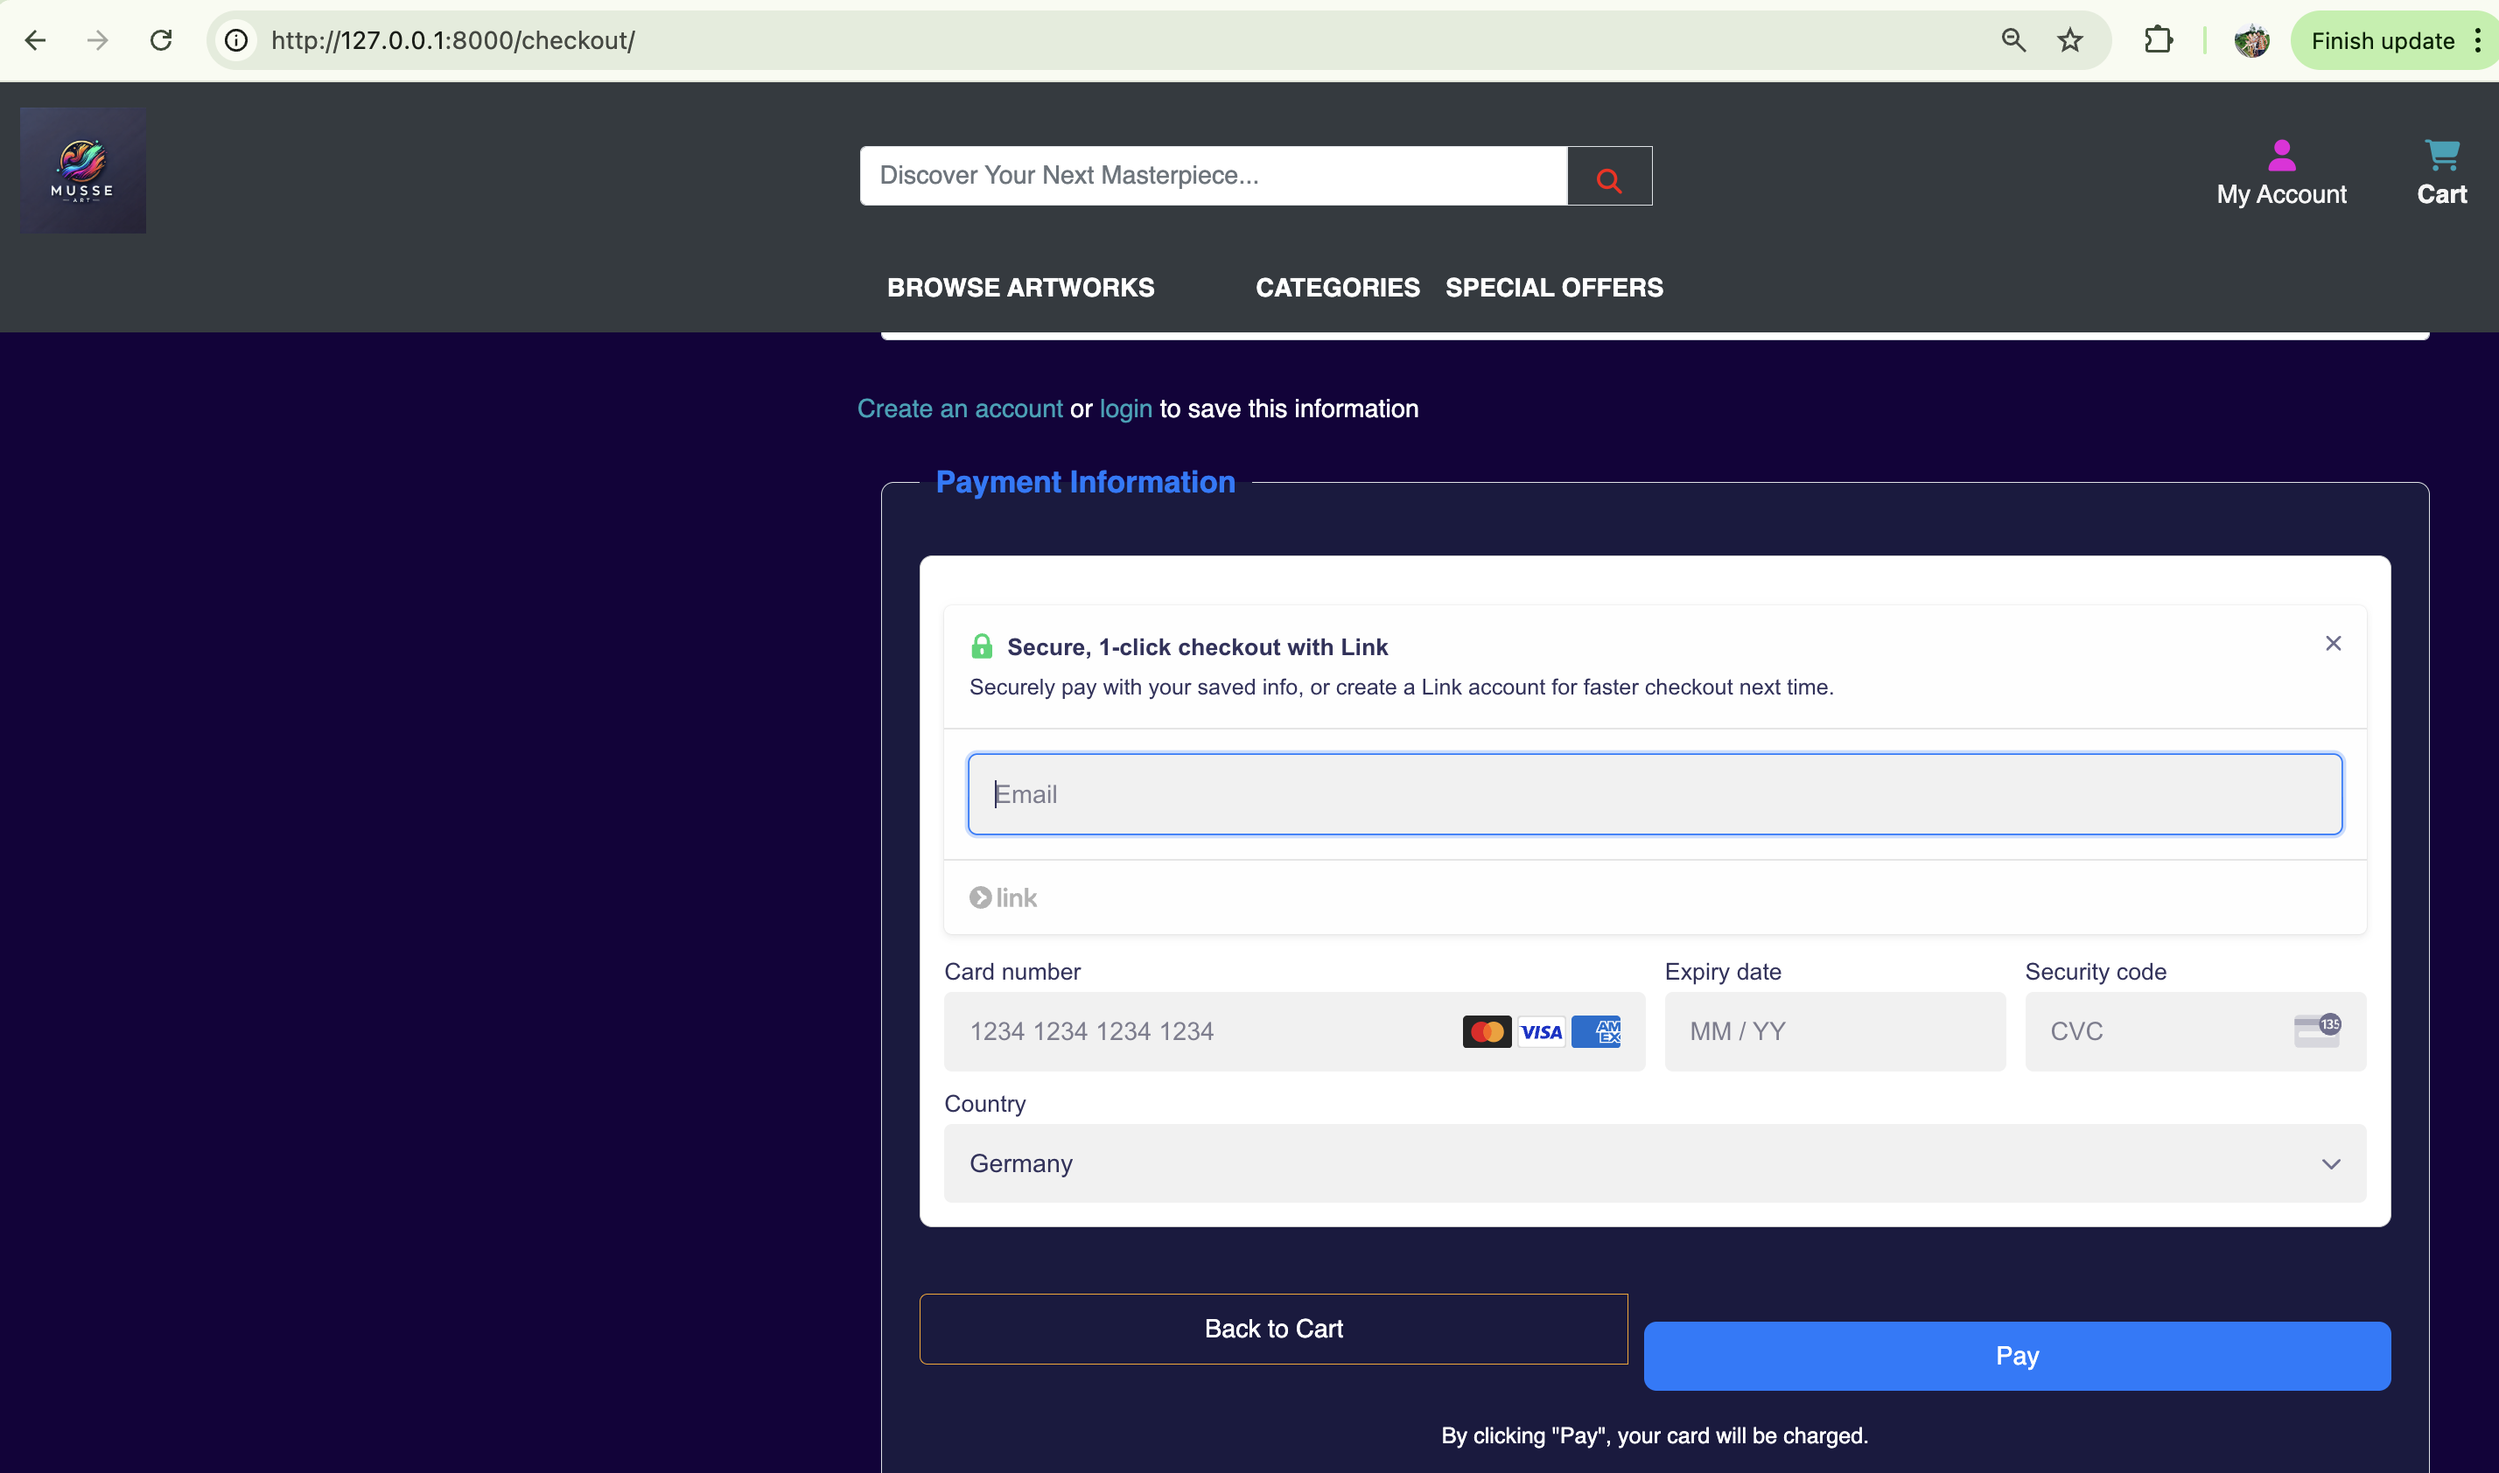
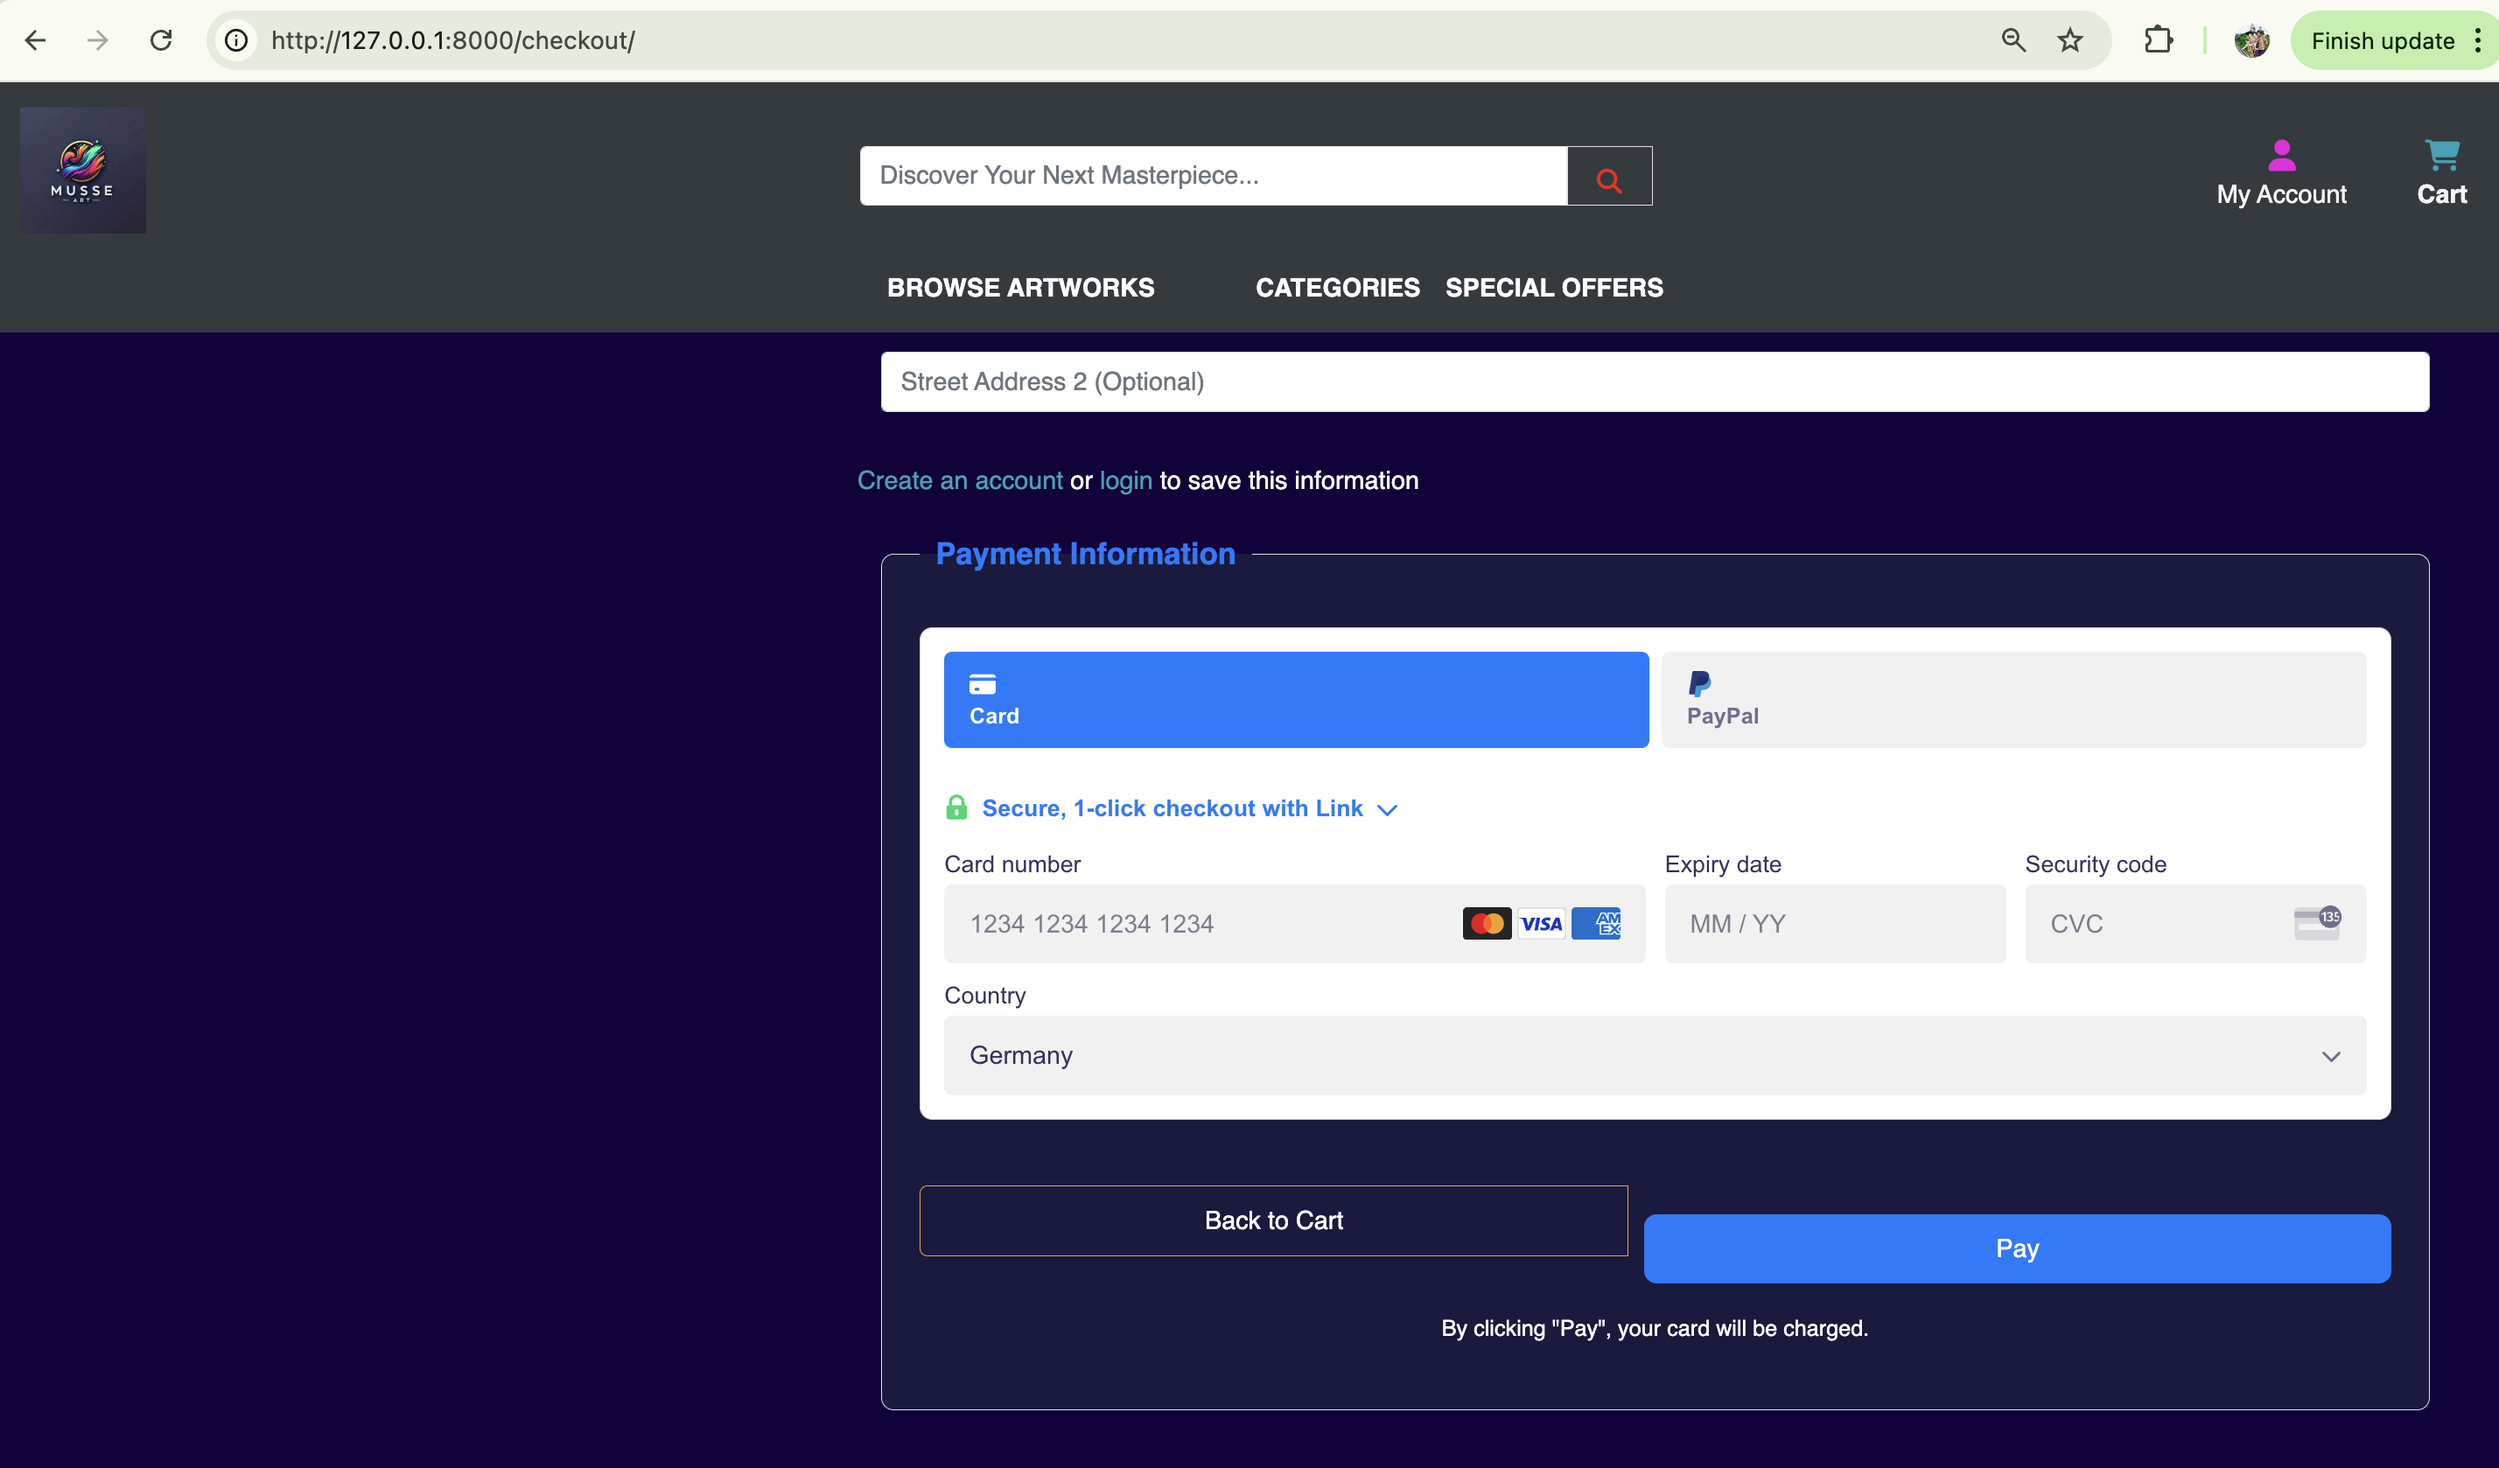
Update checkout page, fixed Stripe integration, added loading spinner

diff --git a/checkout/templates/checkout/checkout.html b/checkout/templates/checkout/checkout.html
@@ -32,6 +32,7 @@
                     <small class="text-white">Qty: {{ item.quantity }}</small>
                     <small class="text-white">Price: {{ item.product.price }}</small>
                 </div>
+                <hr style="border-top: 1px solid #fff; opacity: 0.4;" />
                 <span class="text-white font-weight-bold">${{ item.subtotal|floatformat:2 }}</span>
             </div>
             {% endfor %}
@@ -48,7 +49,7 @@
         </div>
         <!-- Checkout Form -->
         <div class="col-12 col-lg-8">
-            <form method="POST" id="payment-form">
+            <form method="POST" id="payment-form" action="">
                 {% csrf_token %}
                 <h4 class="text-white mb-4">Please fill out the form below to complete Your Order</h4>
 
@@ -107,8 +108,12 @@
                     </div>
                     <div class="form-row">
                         <div class="form-group col-md-12 btn-group">
-                            <a href="{% url 'view_cart' %}" class="btn btn-outline-secondary text-white">Back to Cart</a>
                             <button type="submit" class="btn btn-primary" id="submit">Pay</button>
+                        </div>
+                    </div>   
+                    <div class="form-row">
+                        <div>
+                            <a href="{% url 'view_cart' %}" class="btn btn-outline-secondary text-white">Back to Cart</a>
                         </div>
                     </div>                    
                     <div class="form-row">

diff --git a/checkout/urls.py b/checkout/urls.py
@@ -2,8 +2,12 @@ from django.urls import path
 from . import views
 
 urlpatterns = [
+    # ✅ Checkout page
     path('', views.checkout, name='checkout'),
-    path('', views.send_test_email, name='checkout'),
-    path('order-confirmation/<order_number>/', views.order_confirmation, name='order_confirmation'),
 
+    # ✅ Order Confirmation Page
+    path('order-confirmation/<str:order_number>/', views.order_confirmation, name='order_confirmation'),
+
+    # ✅ Test Email Sending (Fixing duplicate URL issue)
+    path('send-test-email/', views.send_test_email, name='send_test_email'),
 ]
